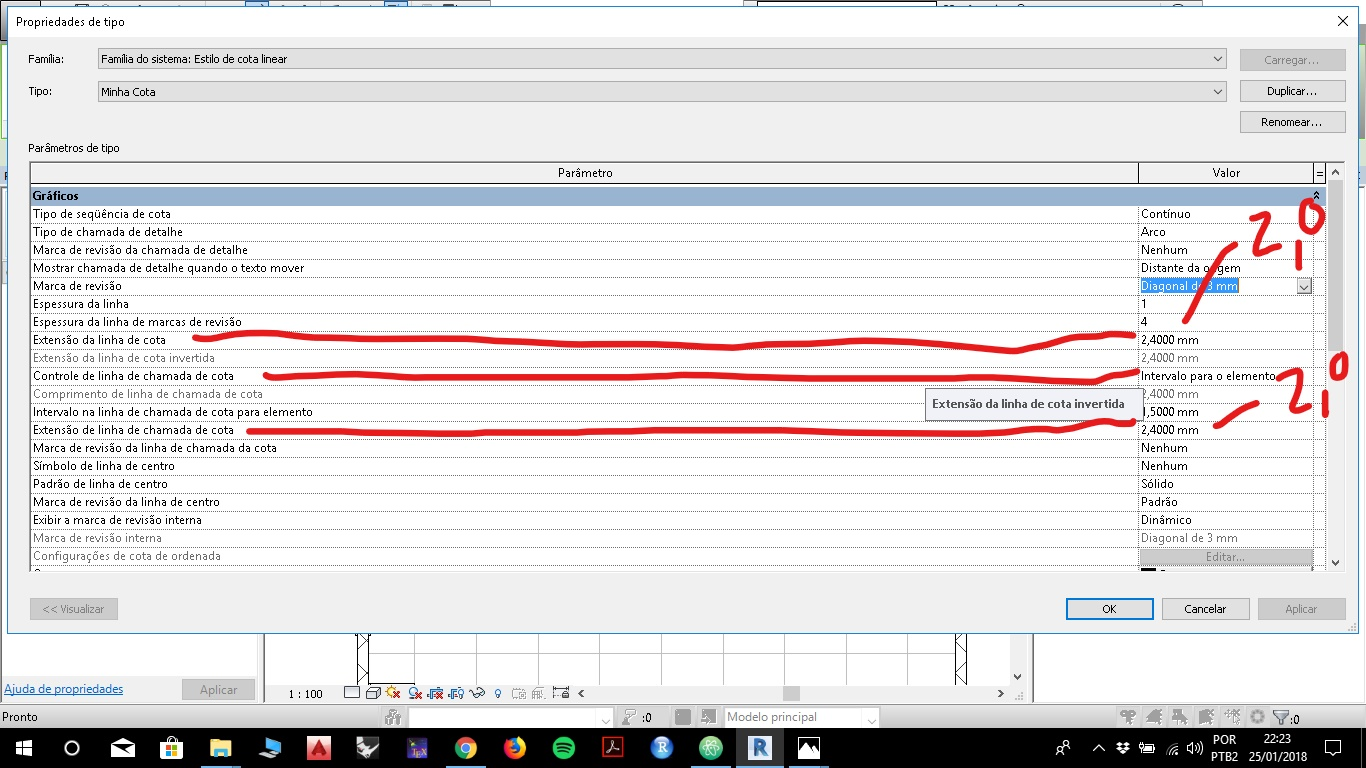
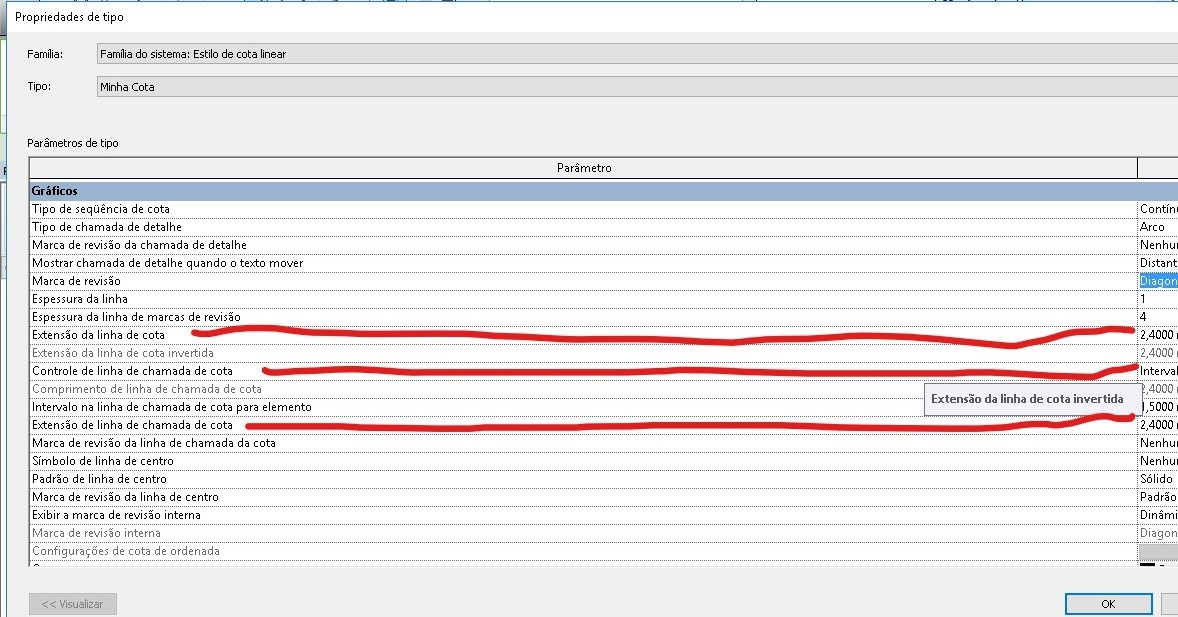
cotas figuras

diff --git a/Anotacoes/cotas.md b/Anotacoes/cotas.md
@@ -46,8 +46,13 @@ Renomeie o Tipo antes de começar a edição.
 ____
 
 ![Renomeando](cotas_config_01.png)
+____
+
+![Renomeando](cotas_config_01A.png)
 
 ____
+
+### Elementos gráficos da cota
 
 ![Alterações recomendadas na aba de gráficos](cotas_config_02.jpg)
 
@@ -109,4 +114,4 @@ ____
 - Procure a opção Marca de revisão e altere para o nome do tipo de Ponta de seta que você salvou.
 - Salve as alterações.
 
-Sua cota está configurada. Ajuste as medidas de acordo com as normas e seu gosto pessoal.
+Sua cota está configurada. As os valores podem ser reajustados de acordo com as normas e seu gosto pessoal.
